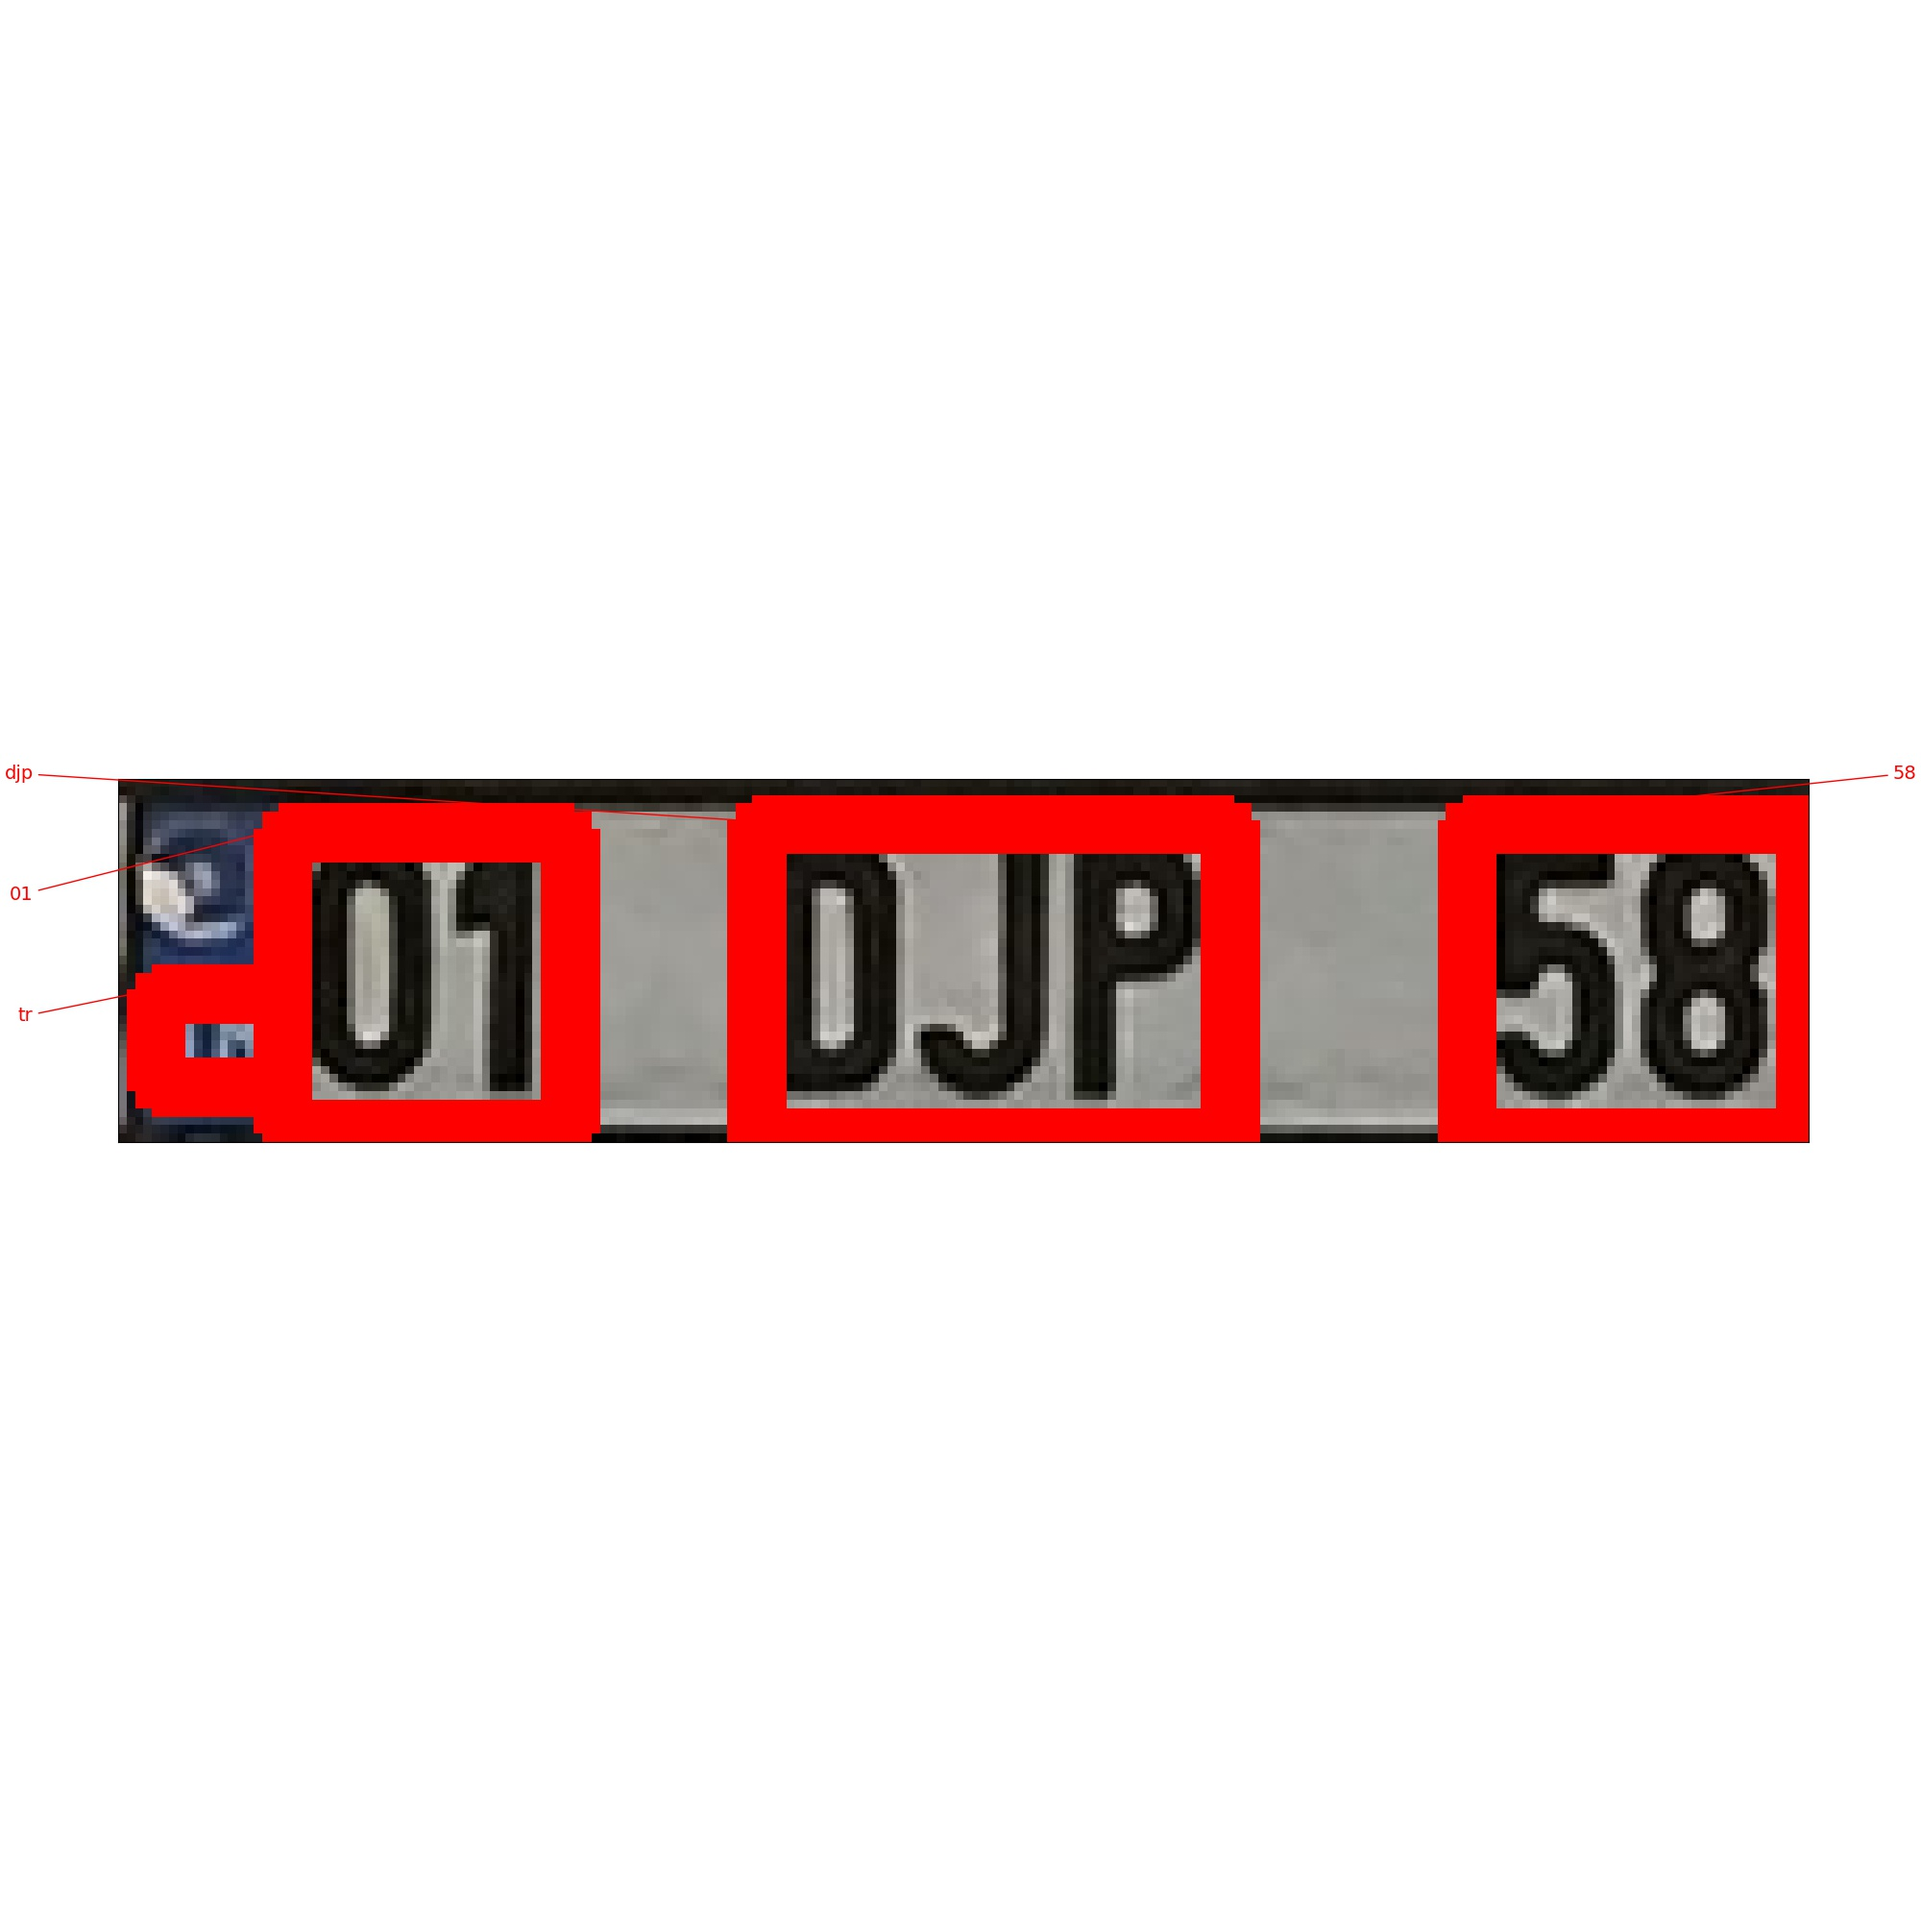
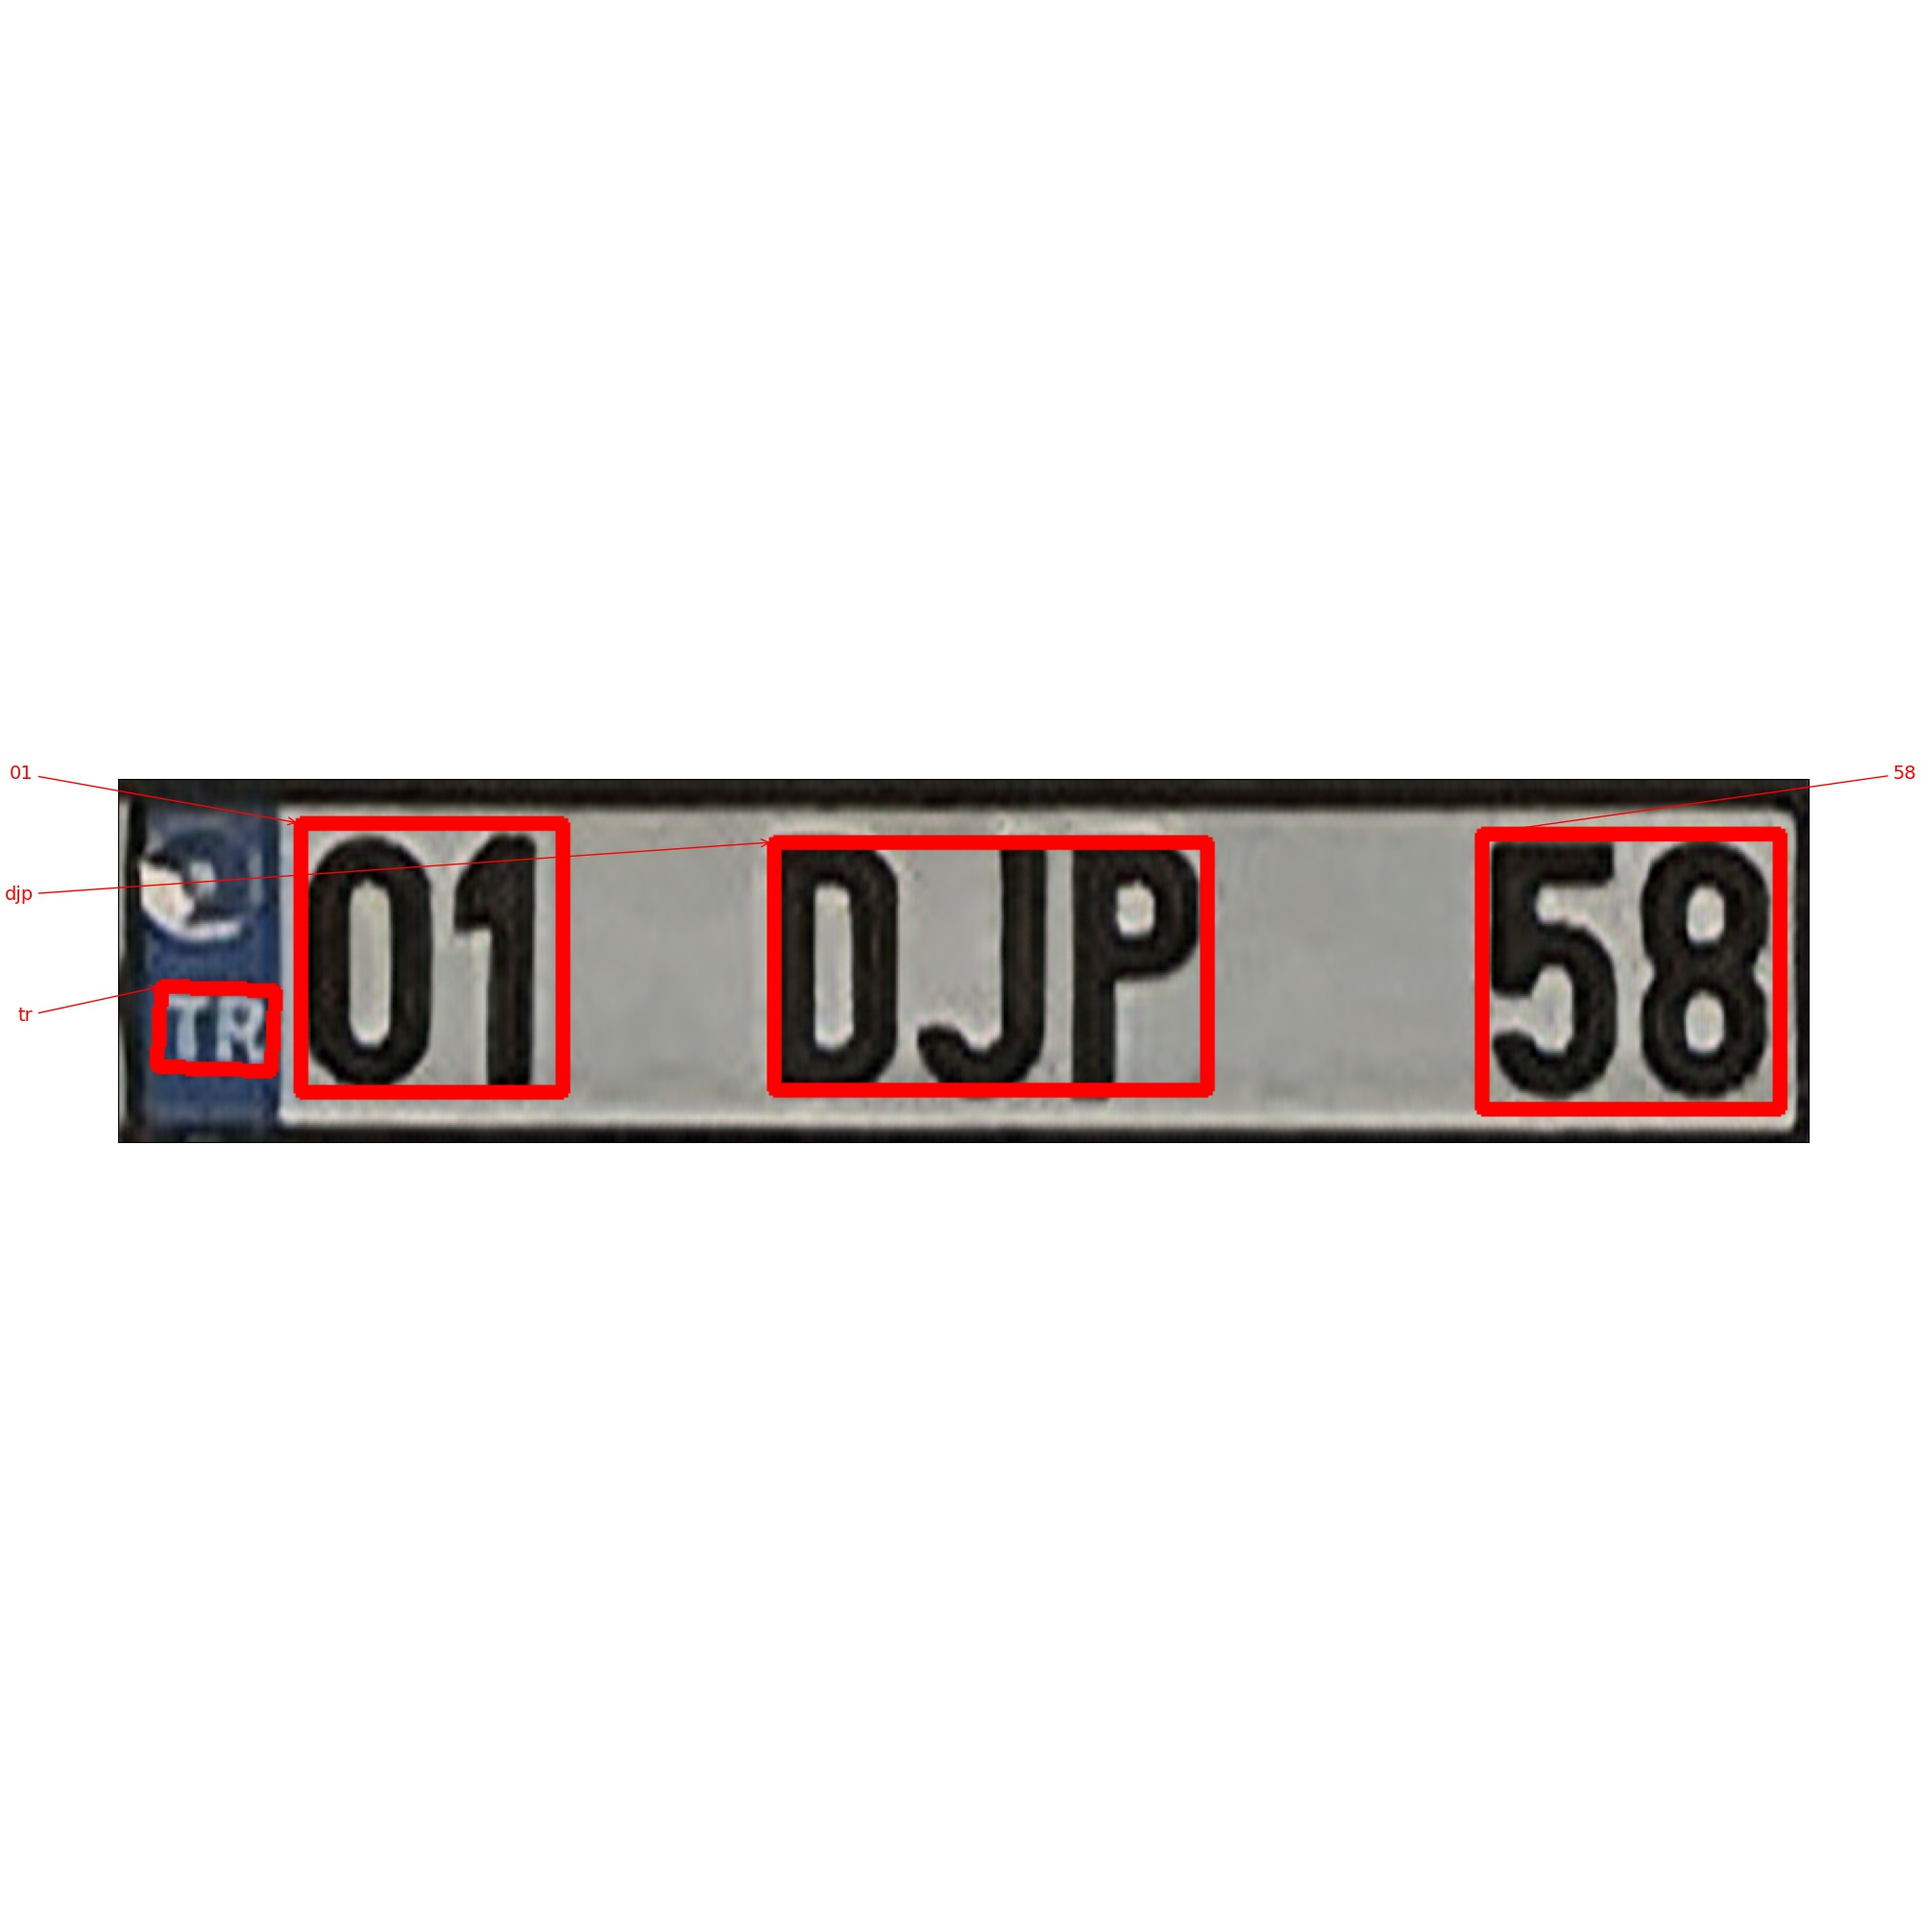
superresolution add. ESRGAN

Changed region(s): [[0.062, 0.403, 0.682, 0.62], [0.744, 0.403, 0.961, 0.62]]

diff --git a/licence_plate_recognition.py b/licence_plate_recognition.py
@@ -1,8 +1,31 @@
+import argparse
+import os
+
 import numpy as np
+from PIL import Image
+
 import keras_ocr
 
+import torch
+from torch.autograd import Variable
+from torchvision import transforms
+from torchvision.utils import save_image
 
-def plot_and_save():
+from esrgan.models import GeneratorRRDB
+
+try:
+    from datasets import denormalize, mean, std
+    from models import GeneratorRRDB
+except:
+    try:
+        from esrgan.datasets import denormalize, mean, std
+        from esrgan.models import GeneratorRRDB
+    except:
+        from implementations.esrgan.datasets import denormalize, mean, std
+        from implementations.esrgan.models import GeneratorRRDB
+
+
+def plot_and_save(images, prediction_groups):
     fig, axs = plt.subplots(nrows=len(images), figsize=(20, 20))
     # for ax, image, predictions in zip(axs, images, prediction_groups):
     #     keras_ocr.tools.drawAnnotations(image=image, predictions=predictions, ax=ax)
@@ -14,7 +37,7 @@ def plot_and_save():
 def sort_bounindg_boxes(prediction_groups):
     prediction_group = prediction_groups[0]
     arr_prediction_group = np.array(prediction_group)
-    bounding_boxes = arr_prediction_group[:, 1]
+    bounding_boxes = arr_prediction_group[:, 1]  # TODO! IndexError: too many indices for array
     bounding_boxes = np.stack(bounding_boxes)
 
     # %% only to detect multiple characters in once. each bounding box has 4 coordinate points.
@@ -39,8 +62,22 @@ class recognize:
     prediction_groups = recognizer(images)
     plate_string = recognizer.get_plate_string(prediction_groups)
     """
-    def __init__(self):
+    def __init__(self, super_resolution_checkpoint_model=None, channels=None, residual_blocks=None):
         self.pipeline = keras_ocr.pipeline.Pipeline()
+
+        # Super-resolution
+        self.device = torch.device("cuda" if torch.cuda.is_available() else "cpu")
+        # channels -> Number of image channels
+        if channels is None:
+            channels = 3
+        if residual_blocks is None:
+            residual_blocks = 23
+        self.generator = GeneratorRRDB(channels, filters=64, num_res_blocks=residual_blocks).to(self.device)
+        if super_resolution_checkpoint_model is None:
+            super_resolution_checkpoint_model = r"D:\PycharmProjects\ocr_toolkit\esrgan\saved_models\generator_151.pth"
+        self.generator.load_state_dict(torch.load(super_resolution_checkpoint_model))  # Path to checkpoint model
+        self.generator.eval()
+        self.transform = transforms.Compose([transforms.ToTensor(), transforms.Normalize(mean, std)])
 
     def __call__(self, images):
         return self.recognize(images)
@@ -50,8 +87,12 @@ class recognize:
             images = [image for image in images]
         prediction_groups = self.pipeline.recognize(images)
         prediction_groups = sort_bounindg_boxes(prediction_groups)
+        # try:
+        #     prediction_groups = sort_bounindg_boxes(prediction_groups)
+        # except:
+        #     None
         return prediction_groups
-    
+
     def get_plate_string(self, predictions, pad_char=''):
         prediction_array = np.array(predictions[0])
         prediction_array_strings = prediction_array[:, 0]
@@ -59,6 +100,20 @@ class recognize:
         plate_string = pad_char.join(prediction_strings_list)
         # plate_string = pad_char.join(prediction_strings_list[1:])  # removes 'tr'
         return plate_string
+
+    def superresolution(self, images):
+        if not isinstance(images, np.ndarray):
+            images = [image for image in images]
+        sr_images = []
+        for image in images:
+            image_tensor = self.transform(image).to(self.device).unsqueeze(0)
+            with torch.no_grad():
+                enhanced = self.generator(image_tensor)
+                sr_image = denormalize(enhanced)
+                ndarr = sr_image.mul(255).add_(0.5).clamp_(0, 255)[0].permute(1, 2, 0).detach().to('cpu', torch.uint8)\
+                    .numpy()
+            sr_images.append(ndarr)
+        return sr_images
 
 
 if __name__ == "__main__":
@@ -71,9 +126,10 @@ if __name__ == "__main__":
         keras_ocr.tools.read(image_name)
     ]
     recognizer = recognize()
-    prediction_groups = recognizer(images)
+    images = recognizer.superresolution(images)
+    prediction_groups = recognizer.recognize(images)
     pprint(prediction_groups)
     plate_string = recognizer.get_plate_string(prediction_groups)
     print(plate_string)
 
-    plot_and_save()
+    plot_and_save(images, prediction_groups)

diff --git a/test_on_UFPR_ALPR_dataset.py b/test_on_UFPR_ALPR_dataset.py
@@ -8,6 +8,7 @@ import cv2
 from matplotlib import pyplot as plt
 
 from keras_ocr.tools import read
+
 try:
     from . import licence_plate_recognition
 except:
@@ -62,18 +63,23 @@ class UFPR_parser:
                     assert False, "!!! Not supported !!!"
         return self.image_paths, self.image_metadata_txt_paths, self.image_metadata_xml_paths
 
-    def read_images(self, plates_and_positions=None, image_paths=None, crop_plate=True):
+    def read_images(self, plates_and_positions=None, image_paths=None, index_maximum=None, crop_plate=True):
         if image_paths is None:
             image_paths = self.image_paths
         if plates_and_positions is None:
             plates_and_positions = self.get_plates_and_positions()
-        for image_path, plate_and_position in zip(image_paths[:self.index_maximum], plates_and_positions[:self.index_maximum]):
+        if index_maximum is None:
+            index_maximum = self.index_maximum
+        for image_path, plate_and_position in zip(image_paths[:index_maximum], plates_and_positions[:index_maximum]):
             image = read(image_path)
             if crop_plate:
                 image = self.crop_plate_func(image, plate_and_position)
             self.images.append(image)
 
         return self.images  # np.stack(images)
+
+    def write_crop_plate_func(self, image, position_plate):
+        raise NotImplementedError
 
     def crop_plate_func(self, image, position_plate):
         # plate = position_plate[0]
@@ -99,12 +105,14 @@ class UFPR_parser:
             image_metadatas.append(image_metadata)
         return image_metadatas
 
-    def parse_metadata_txt(self, image_metadatas=None):
+    def parse_metadata_txt(self, index_maximum=None, image_metadatas=None):
         if image_metadatas is None:
             image_metadatas = self.read_metadata()
+        if index_maximum is None:
+            index_maximum = self.index_maximum
         all_info = {}
         all_info_list = []
-        for image_metadata in image_metadatas[:self.index_maximum]:
+        for image_metadata in image_metadatas[:index_maximum]:
             # headlines
             camera = image_metadata[0].split(':')[-1][1:-1]
             position_vehicle = image_metadata[1].split(':')[-1][1:-2]
@@ -143,18 +151,41 @@ class UFPR_parser:
             plates_and_position.append([plate, position_plate])
         return plates_and_position
 
-    def get_predictions(self, images=None):
+    def get_predictions(self, images=None, enhance=True):
         if images is None:
             images = self.images
-        prediction_groups = self.recognizer(images)
-        plate_strings = self.recognizer.get_plate_string(prediction_groups)
+        if enhance:
+            images = self.recognizer.superresolution(images)  # 'MLS-5511'
+            # images = self.recognizer.superresolution(images)  # second time is not good.
+
+        plate_strings = []
+        for image in images:
+            prediction_group = self.recognizer([image])
+            plate_string = self.recognizer.get_plate_string(prediction_group)
+            plate_strings.append(plate_string)
 
         return plate_strings
+
+    def get_accuracy(self, plates_and_positions=None, predictions=None, images=None, enhance=True):
+        if plates_and_positions is None:
+            plates_and_positions = self.get_plates_and_positions()
+        # plate = plates_and_position["plate"]
+        if predictions is None:
+            predictions = self.get_predictions(images=images, enhance=enhance)
+
+        correct = 0
+        for prediction, plates_and_position in zip(predictions, plates_and_positions):
+            plate = "".join(plates_and_position[0].lower().split("-"))
+            if prediction == plate:
+                correct += 1
+        accuracy = (correct / len(self.images)) * 100
+        return accuracy
 
 
 if __name__ == "__main__":
     data_path = "../UFPR-ALPR dataset/"
-    parser = UFPR_parser(data_path=data_path, index_maximum=5)
-    print(parser[0])
-    plate_strings = parser.get_predictions()
-
+    index_maximum = 5
+    parser = UFPR_parser(data_path=data_path)  # , index_maximum=index_maximum
+    # print(parser[0])
+    accuracy = parser.get_accuracy()
+    print(f"accuracy: {accuracy}%")
